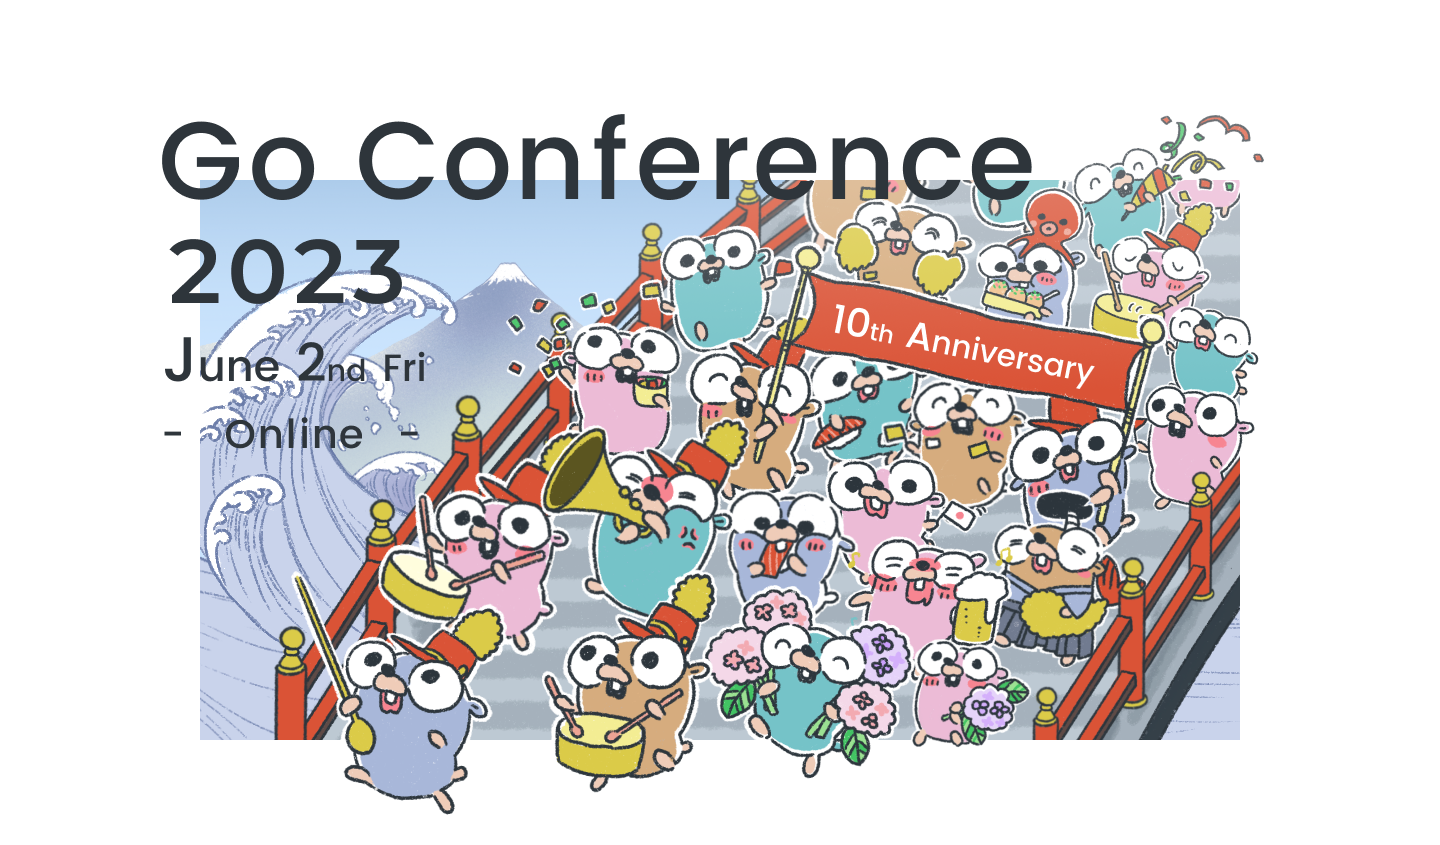
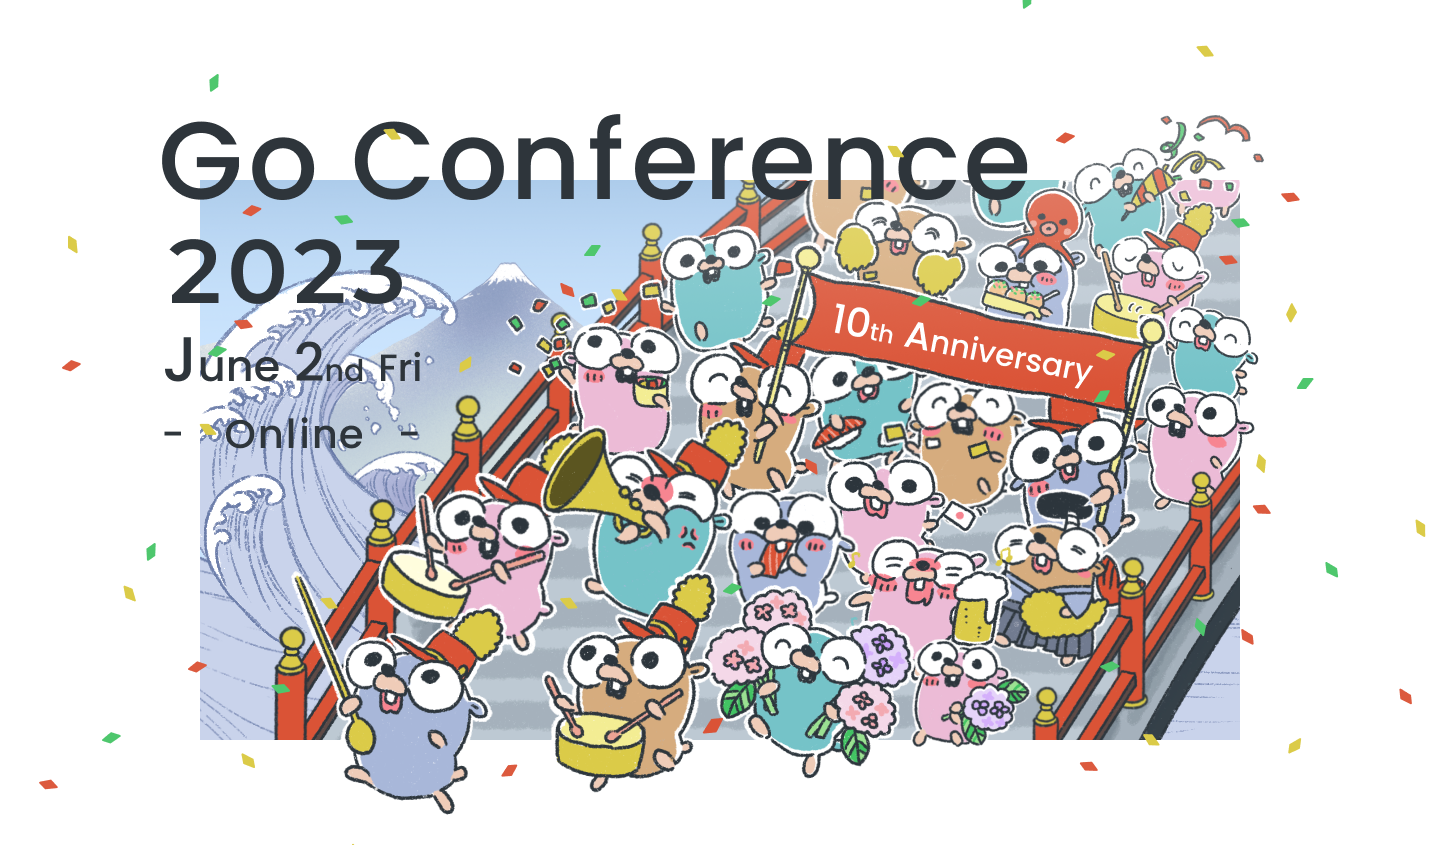
[chore] Adjust confetti config (#57)
* [chore] Replace key visual with raining coffetti one

* [chore] Adjust confetti config

diff --git a/src/components/organisms/MainVisual/index.tsx b/src/components/organisms/MainVisual/index.tsx
@@ -9,15 +9,15 @@ export const MainVisual = () => {
   const { isTabletOrOver } = useSize()
   const keyVisualWithText = isTabletOrOver ? KeyVisualWithTextPc : KeyVisualWithTextMobile
   const confettiLeftConfig = {
-    angle: 45,
+    angle: isTabletOrOver ? 45 : 90,
     colors: confettiColors,
-    elementCount: isTabletOrOver ? 100 : 50,
+    elementSize: 12,
     position: 'absolute'
   }
   const confettiRightConfig = {
-    angle: 135,
+    angle: isTabletOrOver ? 135 : 90,
     colors: confettiColors,
-    elementCount: isTabletOrOver ? 100 : 50,
+    elementSize: 12,
     position: 'absolute'
   }
   const { reward: rewardTopLeft, isAnimating: isAnimatingTopLeft } = useReward(
